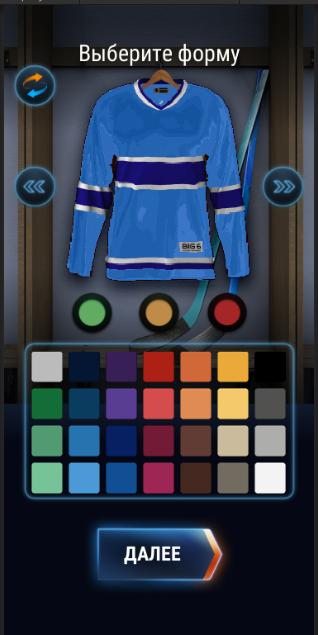
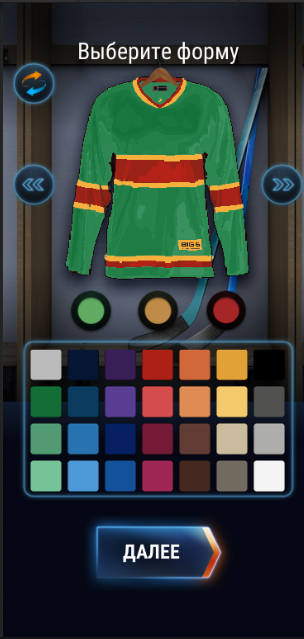
readme

diff --git a/readme.md b/readme.md
@@ -1,10 +1,10 @@
-Реализовано изменение цвета с помощью шейдеров. У формы цвет меняются 3 части в зависимости от нажатия 3 центральных кнопок и выбора цвета из палитры. Рандомная генерация работает только для основной части (наибольшее покрытие). 
-Таким же образом реализовано  изменение основного цвета логотипа. У логотипа доступен для изменения основной цвет, рандомная генерация присутствует.
-Экран названия команды сохраняет только цвета тех шейдеров, материалы которых прикриплены к объекту Image, в данном случае это основные цвета. Это поправить можно переписав шейдер на 3 цвета и закрепив в материале Image, вместо MeshRender.
-По нажатию кнопки далее происходит сохранение осевных цветов материала и названия команды через PlayerPrefs.
+Реализовано изменение цвета с помощью шейдеров. У формы цвет меняются в 3ех частях в зависимости от нажатия центральных кнопок и выбора цвета из палитры. Рандомная генерация работает для каждой части.
+Таким же образом реализовано  изменение основного цвета логотипа. Рандомная генерация присутствует.
+Экран названия команды сохраняет цвета материалов, которые прикриплены к объекту Image.
+По нажатию кнопки Далее происходит сохранение цветов всех 3 частей, цвета лого и названия команды через PlayerPrefs.
 <div align="center">
     <img src="main_color.png" >
-    <p>Изменение основного цвета с помощью палитры и зелёной кнопки</p>
+    <p>Изменение цветов формы</p>
 </div>
 <div align="center">
     <img src="logo_color.png" >
